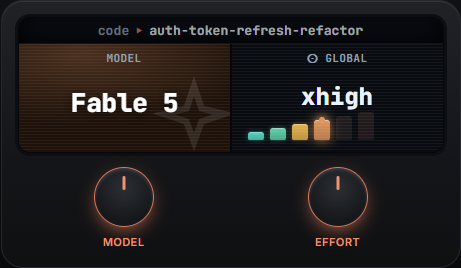
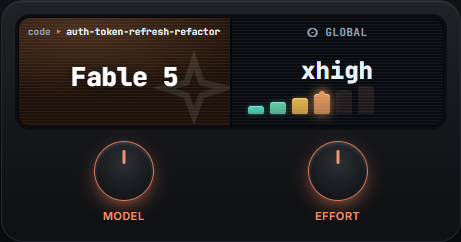
docs: honest device hero — chat name heads the model screen only, not spanning both (#37)
The hero image showed the chat name as one banner spanning both LCDs; the real plugin puts the
full chat name on the model dial's header and keeps the effort dial dedicated to global effort
(⊙GLOBAL). Restructured the mockup to match (chat name = model-segment header, effort stays
⊙GLOBAL), re-rendered the hero from the mockup, and fixed the README caption. No plugin change —
this only makes the preview truthful.

diff --git a/tools/mockup/index.html b/tools/mockup/index.html
@@ -37,11 +37,10 @@
   /* LCD strip: 2 active segments share a chat banner spanning both */
   .strip{border-radius:12px;overflow:hidden;border:1px solid #05070a;background:#05070a;
     box-shadow:inset 0 2px 18px #000,0 0 0 3px #0c0e11;position:relative}
-  .chatbar{height:26px;display:flex;align-items:center;justify-content:center;gap:8px;
-    background:linear-gradient(180deg,#0c1119,#070a0f);border-bottom:1px solid #10141b;position:relative;overflow:hidden}
-  .chatbar .cn{font-family:var(--mono);font-weight:700;font-size:13px;color:var(--lcd-ink);white-space:nowrap;letter-spacing:.01em}
-  .chatbar .cn .win{color:var(--lcd-dim)} .chatbar .cn .sep{color:var(--clay);margin:0 6px}
-  .chatbar::after{content:"";position:absolute;inset:0;pointer-events:none;box-shadow:inset 0 0 24px #000}
+  /* chat name = the MODEL segment's header only (matches the plugin: effort stays ⊙GLOBAL) */
+  .seg .slabel.cn{font-size:9.5px;font-weight:700;color:var(--lcd-ink);white-space:nowrap;overflow:hidden;
+    text-overflow:ellipsis;padding:0 6px;letter-spacing:0}
+  .seg .slabel.cn .win{color:var(--lcd-dim)} .seg .slabel.cn .sep{color:var(--clay);margin:0 5px}
   .segs{display:grid;grid-template-columns:1fr 1fr;gap:2px;background:#05070a}
   .seg{position:relative;height:108px;overflow:hidden;background:var(--lcd)}
   .seg .scan{position:absolute;inset:0;pointer-events:none;opacity:.05;z-index:6;
@@ -127,12 +126,11 @@
 
   <div class="device">
     <div class="strip">
-      <div class="chatbar"><span class="cn" id="chatName"></span></div>
       <div class="segs">
         <div class="seg" id="segModel">
           <div class="atmo" id="mAtmo"></div>
           <div class="emblem" id="mEmblem"></div>
-          <div class="slabel">MODEL</div>
+          <div class="slabel cn" id="chatName">MODEL</div>
           <div class="carousel"><div class="track" id="mTrack"></div></div>
           <div class="think" id="mThink"><div class="mark" id="mMark">✳</div><div class="word" id="mWord"></div></div>
           <div class="mconfirm" id="mConfirm">✓</div>

diff --git a/README.md b/README.md
@@ -3,9 +3,9 @@
 Physical Stream Deck dials for the Claude Code VS Code extension. Spin a knob, change the model or reasoning effort of the chat you're looking at. Press a dial to `/compact`.
 
 <p align="center">
-  <img src="docs/assets/device-preview.png" alt="Claude Deck on-device preview: two LCDs (model + effort) over two dials, with the active chat name across the top" width="480">
+  <img src="docs/assets/device-preview.png" alt="Claude Deck on-device preview: two LCDs over two dials — model dial (active chat name + current model) on the left, global effort dial on the right" width="480">
   <br>
-  <sub>The two dial screens, rendered by the real plugin code — model carousel on the left, global effort on the right, active chat across the top.</sub>
+  <sub>The two dial screens, rendered by the real plugin code — model on the left (headed by the active chat name), global effort (⊙) on the right.</sub>
 </p>
 
 ## What it does